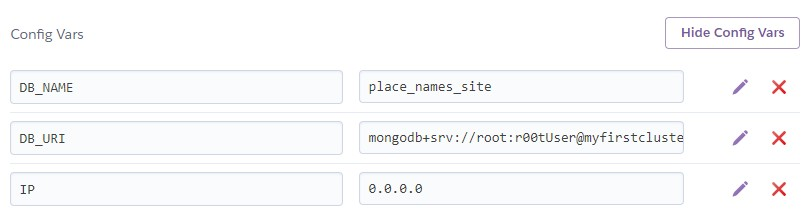
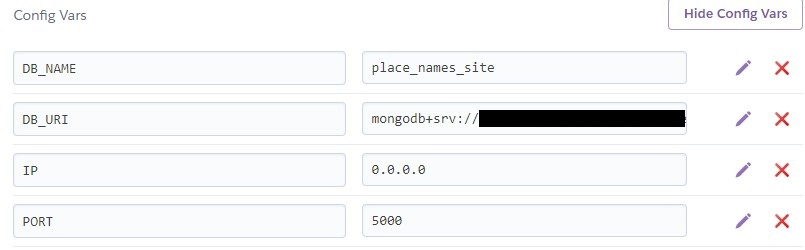
Updated to use Heroku env variables

diff --git a/app.py b/app.py
@@ -4,11 +4,14 @@ from flask import Flask, render_template, redirect, request, url_for, session, f
 from flask_pymongo import PyMongo
 from bson.objectid import ObjectId 
 
+DB_NAME = os.getenv("DB_NAME")
+DB_URI = os.getenv("DB_URI")
+
 
 app = Flask(__name__)
-app.config["MONGO_DBNAME"] = "place_names_site"
+app.config["MONGO_DBNAME"] = DB_NAME
 app.secret_key = os.urandom(24)
-app.config["MONGO_URI"] = os.getenv("MONGO_URI", "mongodb+srv://root:r00tUser@myfirstcluster-bhsq8.mongodb.net/place_names_site?retryWrites=true&w=majority")
+app.config["MONGO_URI"] = DB_URI
 
 mongo = PyMongo(app)
 
@@ -171,6 +174,7 @@ def update_location(location_id):
             mongo.db.locations.update(
             {"_id": ObjectId(location_id)},
             {"location_name": request.form.get("location_name")})
+            mongo.db.place_names.update( {"location": request.form.get("original_location")}, { "$set": {"location": request.form.get("location_name")}}, multi=True)
             return redirect(url_for("get_locations"))
         else:
             flash("Location Name '{}' already exists!".format(request.form.get("location_name")))

diff --git a/README.md b/README.md
@@ -1,5 +1,5 @@
 # Irish Place Names (Idea 2)
-# Live [Website](https://place-name-app.herokuapp.com/#active)
+# [Live Website](https://place-name-app.herokuapp.com/#active)
 ----------
 
 Project aim:
@@ -91,7 +91,7 @@ Below are the features added to the website to provide the functionality.
 -   Login – Users that are registered in the system can log in. Users are given either user privileges or admin privileges depending on login details.
 
 -   View Place Names – shows all the place names entered by all the users - different menus and options are shown based on the users privileges 
-    ([placeNames.html])(https://github.com/michaelhdev/project-3/blob/master/templates/placeNames.html).
+    [placeNames.html](https://github.com/michaelhdev/project-3/blob/master/templates/placeNames.html).
 
 -   Add Place Name – allows a user to add a place name (Privileges - user or admin)
     [addPlaceName.html](https://github.com/michaelhdev/project-3/blob/master/templates/addPlaceName.html)
@@ -203,9 +203,9 @@ The list of technologies used for this project are listed below in no specific o
 14. AWS Cloud9
 
 ## Testing
-The application was tested constantly as it was been developed. Debugging was enabled and any issues or bugs were fixed. The test cases to ensure
+The application was tested constantly as it was being developed. Debugging was enabled during developement and any issues or bugs were fixed. The test cases to ensure
 the application was functioning as expected were derived from the user stories. Below is the list of these test cases along with the expected results.
-Errors encencountered when running the test cases have been rectified
+Errors encountered when running the test cases have been rectified
 
 ## Use Cases and expected results
 
@@ -358,11 +358,11 @@ The responsiveness was tested extensively on different devises using Chromes dev
 
 This project is deployed using [Heroku](https://id.heroku.com/login) 
 
-Git was also used extensively to back up project files to Cloud 9
+Git was also used extensively to back up project files from Cloud 9
 
 The project was developed and tested in Cloud9.
 
-It was pushed to Heroku at and early stage in the project and push regularly to ensure there were no issues. 
+It was pushed to Heroku at and early stage in the developemnt process and push regularly to ensure there were no issues. 
 
 The mongoDB name and URI were added as environment varialbles along with the usual IP and PORT variables.
 
